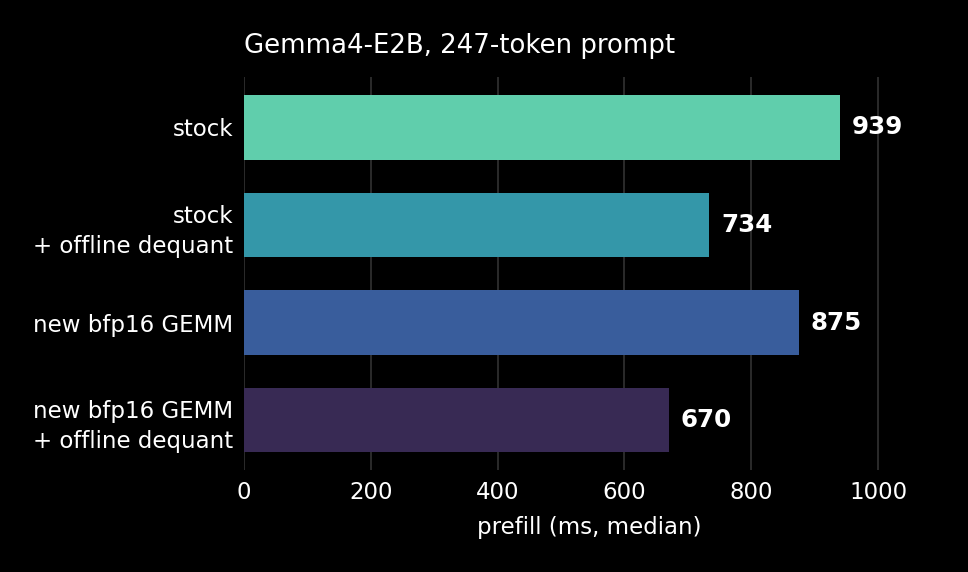
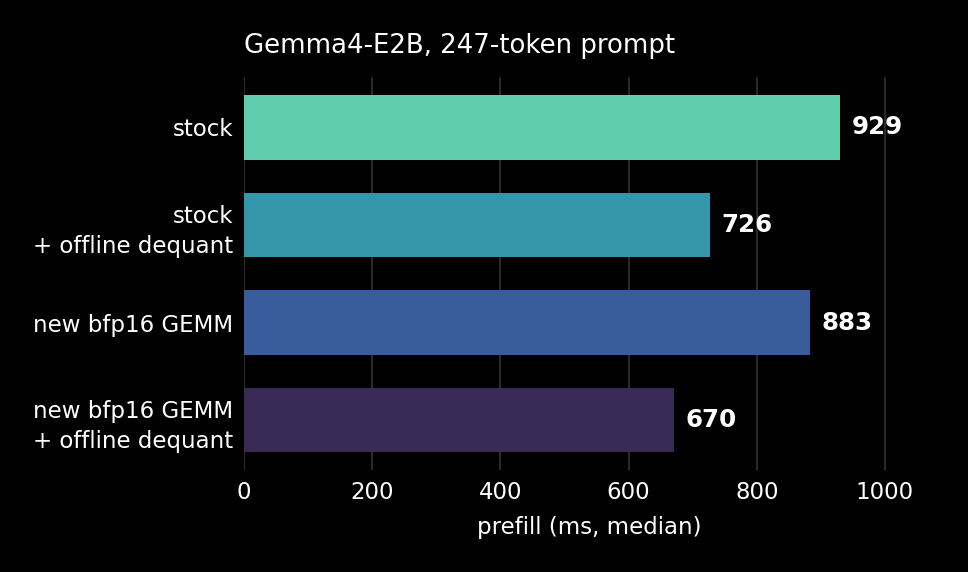
plugins: draw the chart from bench3.sh output instead of literals
The medians were pasted into the plot script, so the chart could drift from the
benchmark without anyone noticing. It now reads bench3.sh's own
"<label>: median <ms>" lines off stdin and keys the bars by label.

Redrawn from one session rather than measurements taken days apart: 929 ms
stock, 883 ms per chunk, 726 ms with bf16 weights on the shipped kernel, 670 ms
with bfp16 on the IRON one. The numbers move within the 2% run-to-run spread;
the conclusions do not.

diff --git a/src/plugins/flm_gemm/tools/plot_prefill.py b/src/plugins/flm_gemm/tools/plot_prefill.py
@@ -1,9 +1,15 @@
-"""Bar chart of the prefill medians for each combination of the plugin's options.
+"""Bar chart of the prefill medians, read from bench3.sh output.
 
-Medians are literals: fill them in from your own bench3.sh runs.
+    ./bench3.sh stock                              >  runs.txt
+    ./bench3.sh dequant $P                         >> runs.txt
+    ./bench3.sh bf16    $P FLM_GEMM_MODE=bf16      >> runs.txt
+    ./bench3.sh bfp16   $P FLM_GEMM_MODE=bfp16     >> runs.txt
+    python3 plot_prefill.py < runs.txt
 """
 
 import os
+import re
+import sys
 
 import matplotlib
 
@@ -11,49 +17,44 @@ matplotlib.use("Agg")
 import matplotlib.pyplot as plt
 import seaborn as sns
 
-# Two independent options, so four points: the stock kernel or the IRON one,
-# each with the dequant left in the prefill loop or moved offline.
-BARS = [
-    ("stock", 939.3),
-    ("stock\n+ offline dequant", 733.6),
-    ("new bfp16 GEMM", 874.7),
-    ("new bfp16 GEMM\n+ offline dequant", 669.9),
-]
+# Bench label -> how the bar reads. Two independent options, so four points.
+NAMES = {
+    "stock": "stock",
+    "bf16": "stock\n+ offline dequant",
+    "dequant": "new bfp16 GEMM",
+    "bfp16": "new bfp16 GEMM\n+ offline dequant",
+}
 
+runs = dict(re.findall(r"^(\S+): median ([\d.]+)", sys.stdin.read(), re.M))
+bars = [(NAMES[k], float(runs[k])) for k in NAMES if k in runs]
+if not bars:
+    sys.exit("no '<label>: median <ms>' lines on stdin")
 
-def main():
-    labels = [b[0] for b in BARS]
-    values = [b[1] for b in BARS]
+labels = [b[0] for b in bars]
+values = [b[1] for b in bars]
 
-    plt.style.use("dark_background")
-    colors = sns.color_palette("mako_r", len(values))
+plt.style.use("dark_background")
+fig, ax = plt.subplots(figsize=(4.4, 2.6), dpi=220)
+ax.barh(range(len(values)), values, color=sns.color_palette("mako_r", len(values)),
+        height=0.66, edgecolor="none", zorder=3)
 
-    fig, ax = plt.subplots(figsize=(4.4, 2.6), dpi=220)
-    y = range(len(values))
-    ax.barh(list(y), values, color=colors, height=0.66, edgecolor="none", zorder=3)
+for i, value in enumerate(values):
+    ax.text(value + max(values) * 0.02, i, f"{value:.0f}", va="center", ha="left",
+            fontsize=8, fontweight="bold")
 
-    for i, value in enumerate(values):
-        ax.text(value + max(values) * 0.02, i, f"{value:.0f}", va="center",
-                ha="left", fontsize=8, fontweight="bold")
+ax.set_yticks(range(len(labels)))
+ax.set_yticklabels(labels, fontsize=7.5, linespacing=1.4)
+ax.invert_yaxis()
+ax.set_xlim(0, max(values) * 1.16)
+ax.set_xlabel("prefill (ms, median)", fontsize=7.5)
+ax.set_title("Gemma4-E2B, 247-token prompt", fontsize=8.5, pad=8, loc="left")
+ax.tick_params(axis="both", labelsize=7.5, length=0)
+ax.grid(axis="x", alpha=0.18, linewidth=0.6)
+ax.set_axisbelow(True)
+for side in ("top", "right", "left", "bottom"):
+    ax.spines[side].set_visible(False)
 
-    ax.set_yticks(list(y))
-    ax.set_yticklabels(labels, fontsize=7.5, linespacing=1.4)
-    ax.invert_yaxis()
-    ax.set_xlim(0, max(values) * 1.16)
-    ax.set_xlabel("prefill (ms, median)", fontsize=7.5)
-    ax.set_title("Gemma4-E2B, 247-token prompt", fontsize=8.5, pad=8, loc="left")
-
-    ax.tick_params(axis="both", labelsize=7.5, length=0)
-    ax.grid(axis="x", alpha=0.18, linewidth=0.6)
-    ax.set_axisbelow(True)
-    for side in ("top", "right", "left", "bottom"):
-        ax.spines[side].set_visible(False)
-
-    fig.tight_layout()
-    out = os.environ.get("FLM_PLOT", "prefill.png")
-    fig.savefig(out, facecolor=fig.get_facecolor())
-    print(f"wrote {out}")
-
-
-if __name__ == "__main__":
-    main()
+fig.tight_layout()
+out = os.environ.get("FLM_PLOT", "prefill.png")
+fig.savefig(out, facecolor=fig.get_facecolor())
+print(f"wrote {out}")

diff --git a/src/plugins/flm_gemm/README.md b/src/plugins/flm_gemm/README.md
@@ -1,7 +1,8 @@
 # FLMGEMM override
 
 Runs Gemma4 E2B's prefill projections on the `flm.GEMM` and `flm.DequantBFP`
-operators from [IRON](https://github.com/Xilinx/mlir-aie), in place of the
+operators from [IRON](https://github.com/amd/IRON/tree/devel/iron/operators/flm),
+in place of the
 engine's `mm.xclbin` and `dequant.xclbin`. Both operators are open source and
 compiled out of tree, so this is also the path by which a rebuilt or retuned
 operator reaches a running model: build it, drop the artifacts next to the
@@ -16,17 +17,17 @@ buffers come to 75 MiB.
 ## Modes
 
 `FLM_GEMM_MODE` trades memory for prefill time, and lets the two replacements be
-measured apart. Prefill of a 247-token prompt on Strix, against 939 ms for the
+measured apart. Prefill of a 247-token prompt on Strix, against 929 ms for the
 untouched engine:
 
 | mode | weights | dequant | GEMM | median | resident |
 |---|---|---|---|---|---|
-| `dequant` (default) | q4, per chunk on device | `DequantBFP` | `flm.GEMM` | ~880 ms | 75 MiB |
-| `bf16` | `model.dq_bf16`, resident | none | shipped `mm` | 734 ms | 3501 MiB |
+| `dequant` (default) | q4, per chunk on device | `DequantBFP` | `flm.GEMM` | 883 ms | 75 MiB |
+| `bf16` | `model.dq_bf16`, resident | none | shipped `mm` | 726 ms | 3501 MiB |
 | `bfp16` | `model.dq_bfp`, resident | none | `flm.GEMM` | 670 ms | 1969 MiB |
 
 Read down the table: dropping the dequant from the timed path is worth about
-205 ms, and replacing the kernel a further 64 ms. The default gives most of the
+203 ms, and replacing the kernel a further 56 ms. The default gives most of the
 first back in exchange for keeping the weights 4-bit, because the prefill loop
 touches every weight exactly once per request, so a per-chunk dequant does the
 same total work a resident one does -- just on every request instead of once.

diff --git a/src/plugins/README.md b/src/plugins/README.md
@@ -14,7 +14,7 @@ options, independently:
   prefill, more disk and more memory.
 - **New IRON bfp16 GEMM.** Replaces FastFlowLM's matrix multiplication with an
   open-source implementation from IRON, whose source is
-  [here](https://github.com/amd/IRON/tree/main/iron/operators/flm/gemm). It is a
+  [here](https://github.com/amd/IRON/tree/devel/iron/operators/flm/gemm). It is a
   faster kernel than stock. It operates on bfp16 (block floating point) where the
   original operates on bf16, so the dequant operator has to be replaced too.
 
@@ -112,9 +112,19 @@ FLM_GEMM_OFF=1      flm serve gemma4-it:e2b        # stock, plugin registers not
 ```
 
 Time a 247-token prompt against each and read `prompt_eval_duration`. Run-to-run
-spread is about 2%, so differences below ~40 ms need several runs to see. The
-chart above is medians of 6–8 timed repeats after a discarded warm-up; regenerate
-it with `flm_gemm/tools/plot_prefill.py`, which holds the medians as literals.
+spread is about 2%, so differences below ~40 ms need several runs to see.
+
+`bench3.sh` in the internal tree does the timing and prints one
+`<label>: median <ms>` line per configuration, which is what the chart is drawn
+from:
+
+```bash
+{ ./bench3.sh stock
+  ./bench3.sh dequant $P
+  ./bench3.sh bf16    $P FLM_GEMM_MODE=bf16
+  ./bench3.sh bfp16   $P FLM_GEMM_MODE=bfp16; } | grep median > runs.txt
+python3 flm_gemm/tools/plot_prefill.py < runs.txt
+```
 
 `flm_gemm/README.md` has the artifacts each mode needs and how to check a new
 weight shape.
